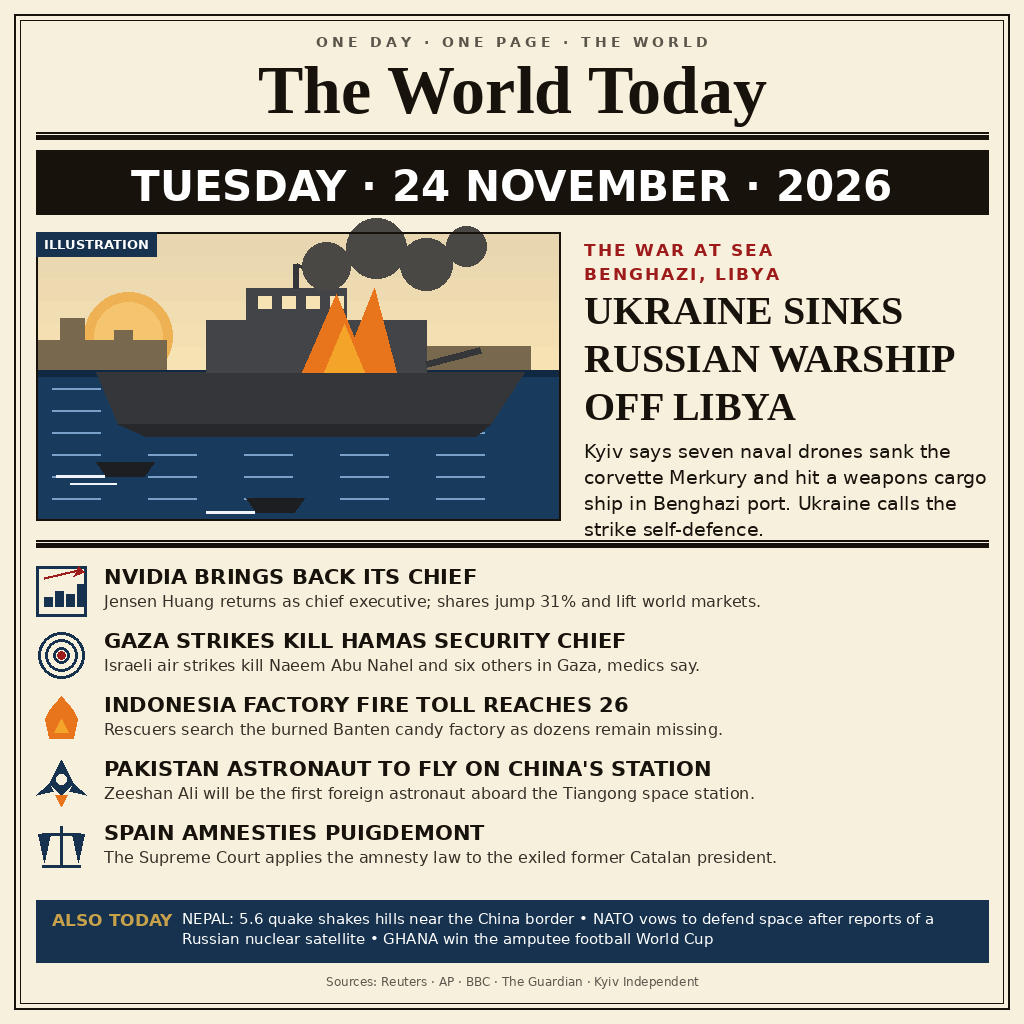
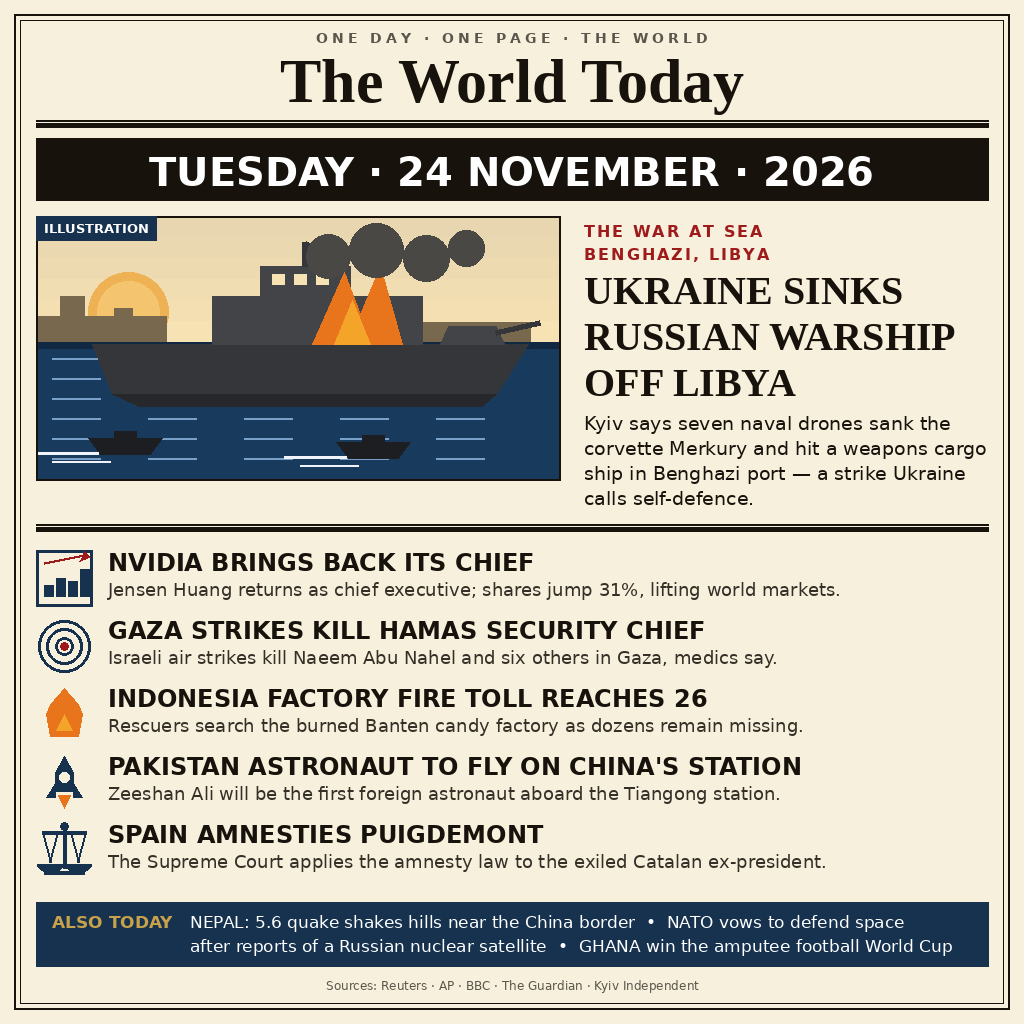
Add files via upload

Changed region(s): [[0.0312, 0.0312, 0.9688, 0.9688]]

diff --git a/main.ts b/main.ts
@@ -1,4 +1,4 @@
-// The World Today — 24 November 2026.
+// The World Today — 24 November 2026, second setting.
 //
 // The whole entry is delivery: the repository holds entry.png, the
 // illustrated broadsheet drawn by compose.py, and this program copies

diff --git a/compose.py b/compose.py
@@ -1,13 +1,22 @@
 #!/usr/bin/env python3
-"""The World Today — 24 November 2026. Draws the illustrated broadsheet
-entry.png (1024x1024) for the make.fun news-image-20261124 bounty.
+"""The World Today — 24 November 2026, second setting. Draws the
+illustrated broadsheet entry.png (1024x1024) for the make.fun
+news-image-20261124 bounty, revised against the first setting:
 
-Layout (winner of a two-variant test in this session): masthead and a
-full-width black date band, then a tall drawn illustration on the left
-with the lead headline and summary stacked on the right, five grid
-stories as full-width rows with one drawn icon each, and an ALSO TODAY
-strip. Everything is drawn with Pillow from plain shapes and text: no
-photos, no network, no copied artwork. Run:  python3 compose.py
+- the lead summary now ends well clear of the rule beneath it (in the
+  first setting its last line sat on the rule);
+- grid headlines and summaries are set larger (24 / 18 px) and every
+  summary is tightened until it fits its row on one line, so the page
+  still reads at the judge's 300-pixel width;
+- the smoke in the lead illustration stays inside its frame, the
+  warship gains a bridge tower and a gun turret so it reads as a
+  warship, and the naval drone boats are drawn larger with wakes;
+- the scales and rocket icons are redrawn to read at small size;
+- the ALSO TODAY strip is set larger, on two balanced lines.
+
+Same day's news, same stories, same attributions as the first setting.
+Everything is drawn with Pillow from plain shapes and text: no photos,
+no network, no copied artwork. Run:  python3 compose.py
 Writes entry.png next to this file. Deterministic: same bytes every run.
 """
 
@@ -109,26 +118,34 @@ def icon_flame(d, x, y, s, col):
 
 
 def icon_rocket(d, x, y, s, col):
+    """A plain rocket: capsule body, round window, two fins, flame."""
     cx = x + s // 2
-    d.polygon([(cx, y + 2), (cx + s // 4, y + s // 2),
-               (cx, y + s * 3 // 4), (cx - s // 4, y + s // 2)], fill=col)
-    d.polygon([(cx - s // 4, y + s // 2), (cx - s // 2, y + s * 3 // 4),
-               (cx - s // 6, y + s * 2 // 3)], fill=col)
-    d.polygon([(cx + s // 4, y + s // 2), (cx + s // 2, y + s * 3 // 4),
-               (cx + s // 6, y + s * 2 // 3)], fill=col)
+    body_w = s // 3
+    top, body_bot = y + 2, y + s * 2 // 3
+    d.polygon([(cx - body_w // 2, body_bot), (cx - body_w // 2, y + s // 3),
+               (cx, top), (cx + body_w // 2, y + s // 3),
+               (cx + body_w // 2, body_bot)], fill=col)
     d.ellipse([cx - 5, y + s // 3, cx + 5, y + s // 3 + 10], fill=CREAM)
-    d.polygon([(cx - 6, y + s * 3 // 4), (cx + 6, y + s * 3 // 4),
+    d.polygon([(cx - body_w // 2, body_bot - 8), (cx - body_w // 2 - 9, body_bot + 6),
+               (cx - body_w // 2, body_bot + 6)], fill=col)
+    d.polygon([(cx + body_w // 2, body_bot - 8), (cx + body_w // 2 + 9, body_bot + 6),
+               (cx + body_w // 2, body_bot + 6)], fill=col)
+    d.polygon([(cx - 6, body_bot + 4), (cx + 6, body_bot + 4),
                (cx, y + s - 2)], fill=ORANGE)
 
 
 def icon_scales(d, x, y, s, col):
+    """Balance scales: post, beam, and two pans hung on chain lines."""
     cx = x + s // 2
-    d.line([(cx, y + 4), (cx, y + s - 8)], fill=col, width=3)
-    d.line([(x + 6, y + 12), (x + s - 6, y + 12)], fill=col, width=3)
-    d.polygon([(x + 2, y + 12), (x + 14, y + 12), (x + 8, y + s - 10)], fill=col)
-    d.polygon([(x + s - 14, y + 12), (x + s - 2, y + 12), (x + s - 8, y + s - 10)],
-              fill=col)
-    d.line([(x + 6, y + s - 6), (x + s - 6, y + s - 6)], fill=col, width=3)
+    beam_y = y + 10
+    d.line([(cx, y + 4), (cx, y + s - 10)], fill=col, width=4)
+    d.line([(x + 6, beam_y), (x + s - 6, beam_y)], fill=col, width=4)
+    d.ellipse([cx - 4, y, cx + 4, y + 8], fill=col)
+    for px in (x + 14, x + s - 14):
+        pan_y = y + s - 16
+        d.line([(px - 8, beam_y), (px, pan_y), (px + 8, beam_y)], fill=col, width=2)
+        d.pieslice([px - 13, pan_y - 6, px + 13, pan_y + 10], 0, 180, fill=col)
+    d.line([(x + 8, y + s - 6), (x + s - 8, y + s - 6)], fill=col, width=4)
 
 
 ICONS = {"chart": icon_chart, "target": icon_target, "flame": icon_flame,
@@ -138,7 +155,8 @@ ICONS = {"chart": icon_chart, "target": icon_target, "flame": icon_flame,
 # ------------------------------------------------------- lead illustration
 def draw_scene(d, x0, y0, x1, y1):
     """Dusk sea at Benghazi port: a grey warship burning at anchor, naval
-    drone boats closing in, smoke over the harbour. Flat shapes only."""
+    drone boats closing in, smoke over the harbour. Flat shapes only,
+    and every shape kept inside the frame."""
     d.rectangle([x0, y0, x1, y1], fill=SKY_TOP)
     horizon = y0 + int((y1 - y0) * 0.48)
     for i in range(6):
@@ -146,49 +164,55 @@ def draw_scene(d, x0, y0, x1, y1):
         shade = tuple(int(SKY_TOP[c] + (SKY_BOT[c] - SKY_TOP[c]) * i / 5) for c in range(3))
         d.rectangle([x0, yy, x1, yy + (horizon - y0) // 6 + 1], fill=shade)
     # low sun
-    sx, sy, sr = x0 + 92, horizon - 34, 44
+    sx, sy, sr = x0 + 92, horizon - 30, 40
     d.ellipse([sx - sr, sy - sr, sx + sr, sy + sr], fill=(238, 178, 84))
-    d.ellipse([sx - sr + 10, sy - sr + 10, sx + sr - 10, sy + sr - 10],
+    d.ellipse([sx - sr + 9, sy - sr + 9, sx + sr - 9, sy + sr - 9],
               fill=(244, 196, 110))
     # distant port skyline
-    d.rectangle([x0, horizon - 30, x0 + 130, horizon], fill=(120, 104, 78))
-    d.rectangle([x0 + 24, horizon - 52, x0 + 48, horizon], fill=(120, 104, 78))
-    d.rectangle([x0 + 78, horizon - 40, x0 + 96, horizon], fill=(120, 104, 78))
-    d.rectangle([x1 - 150, horizon - 24, x1 - 30, horizon], fill=(120, 104, 78))
+    d.rectangle([x0, horizon - 26, x0 + 130, horizon], fill=(120, 104, 78))
+    d.rectangle([x0 + 24, horizon - 46, x0 + 48, horizon], fill=(120, 104, 78))
+    d.rectangle([x0 + 78, horizon - 34, x0 + 96, horizon], fill=(120, 104, 78))
+    d.rectangle([x1 - 150, horizon - 20, x1 - 30, horizon], fill=(120, 104, 78))
     # sea
     d.rectangle([x0, horizon, x1, y1], fill=SEA)
     d.rectangle([x0, horizon, x1, horizon + 6], fill=SEA_DARK)
-    for wy in range(horizon + 18, y1 - 10, 22):
+    for wy in range(horizon + 16, y1 - 8, 20):
         for wx in range(x0 + 16, x1 - 70, 96):
             d.line([(wx, wy), (wx + 48, wy)], fill=(120, 160, 200), width=2)
-    # warship, bow to the right, listing after the strike
-    hx0, hx1 = x0 + 60, x1 - 36
-    hy = horizon + 46
-    d.polygon([(hx0, hy - 44), (hx1, hy - 44), (hx1 - 34, hy + 8),
-               (hx0 + 22, hy + 8)], fill=(52, 54, 58))
-    d.polygon([(hx0 + 22, hy + 8), (hx1 - 34, hy + 8), (hx1 - 48, hy + 20),
-               (hx0 + 48, hy + 20)], fill=(38, 40, 44))
-    d.rectangle([hx0 + 110, hy - 96, hx0 + 330, hy - 44], fill=(66, 68, 72))
-    d.rectangle([hx0 + 150, hy - 128, hx0 + 250, hy - 96], fill=(66, 68, 72))
-    d.line([(hx0 + 200, hy - 128), (hx0 + 200, hy - 152)], fill=(52, 54, 58), width=6)
-    d.line([(hx0 + 200, hy - 152), (hx0 + 236, hy - 136)], fill=(52, 54, 58), width=4)
-    for wx in range(hx0 + 162, hx0 + 242, 24):
-        d.rectangle([wx, hy - 120, wx + 13, hy - 108], fill=(246, 226, 178))
-    d.line([(hx0 + 330, hy - 52), (hx0 + 384, hy - 66)], fill=(52, 54, 58), width=7)
-    # flames and smoke at midship, kept inside the scene box
-    fx = hx0 + 250
-    d.polygon([(fx - 44, hy - 44), (fx - 10, hy - 122), (fx + 8, hy - 78),
-               (fx + 28, hy - 128), (fx + 50, hy - 44)], fill=ORANGE)
-    d.polygon([(fx - 22, hy - 44), (fx - 2, hy - 92), (fx + 18, hy - 44)], fill=FLAME)
-    for sx2, sy2, sr2 in [(fx - 20, y0 + 34, 24), (fx + 30, y0 + 16, 30),
-                          (fx + 80, y0 + 32, 26), (fx + 120, y0 + 14, 20)]:
+    # warship, bow to the right: hull, deck houses, bridge tower, mast,
+    # and a forward gun turret, so it reads as a warship at any size
+    hx0, hx1 = x0 + 56, x1 - 32
+    hy = horizon + 42
+    d.polygon([(hx0, hy - 40), (hx1, hy - 40), (hx1 - 32, hy + 10),
+               (hx0 + 20, hy + 10)], fill=(52, 54, 58))
+    d.polygon([(hx0 + 20, hy + 10), (hx1 - 32, hy + 10), (hx1 - 46, hy + 22),
+               (hx0 + 46, hy + 22)], fill=(38, 40, 44))
+    d.rectangle([hx0 + 120, hy - 88, hx0 + 330, hy - 40], fill=(66, 68, 72))
+    d.rectangle([hx0 + 168, hy - 118, hx0 + 258, hy - 88], fill=(66, 68, 72))
+    for wx in range(hx0 + 180, hx0 + 246, 22):
+        d.rectangle([wx, hy - 110, wx + 12, hy - 100], fill=(246, 226, 178))
+    d.line([(hx0 + 213, hy - 118), (hx0 + 213, hy - 142)], fill=(52, 54, 58), width=6)
+    d.line([(hx0 + 213, hy - 142), (hx0 + 248, hy - 128)], fill=(52, 54, 58), width=4)
+    # forward gun turret and barrel, clear of the flames amidships
+    d.polygon([(hx0 + 348, hy - 40), (hx0 + 356, hy - 58), (hx0 + 404, hy - 58),
+               (hx0 + 412, hy - 40)], fill=(66, 68, 72))
+    d.line([(hx0 + 404, hy - 52), (hx0 + 448, hy - 62)], fill=(52, 54, 58), width=6)
+    # flames and smoke amidships, smoke puffs kept inside the frame
+    fx = hx0 + 262
+    d.polygon([(fx - 42, hy - 40), (fx - 10, hy - 112), (fx + 6, hy - 70),
+               (fx + 26, hy - 118), (fx + 48, hy - 40)], fill=ORANGE)
+    d.polygon([(fx - 20, hy - 40), (fx - 2, hy - 84), (fx + 16, hy - 40)], fill=FLAME)
+    for sx2, sy2, sr2 in [(fx - 26, y0 + 40, 22), (fx + 22, y0 + 34, 27),
+                          (fx + 72, y0 + 42, 23), (fx + 112, y0 + 32, 18)]:
         d.ellipse([sx2 - sr2, sy2 - sr2, sx2 + sr2, sy2 + sr2], fill=(74, 72, 68))
-    # drone boats with wakes closing in
-    for bx, by in [(x0 + 60, horizon + 92), (x0 + 210, horizon + 128)]:
-        d.polygon([(bx, by), (bx + 58, by), (bx + 48, by + 14), (bx + 10, by + 14)],
+    # drone boats with white wakes, big enough to see closing in and
+    # kept clear of the hull above and the frame's bottom edge
+    for bx, by in [(x0 + 52, horizon + 96), (x0 + 300, horizon + 100)]:
+        d.polygon([(bx, by), (bx + 74, by), (bx + 62, by + 16), (bx + 12, by + 16)],
                   fill=(28, 30, 34))
-        d.line([(bx - 40, by + 14), (bx + 8, by + 14)], fill=(240, 244, 248), width=3)
-        d.line([(bx - 26, by + 21), (bx + 20, by + 21)], fill=(240, 244, 248), width=2)
+        d.rectangle([bx + 26, by - 7, bx + 48, by], fill=(28, 30, 34))
+        d.line([(bx - 52, by + 15), (bx + 10, by + 15)], fill=(240, 244, 248), width=3)
+        d.line([(bx - 36, by + 23), (bx + 22, by + 23)], fill=(240, 244, 248), width=2)
     d.rectangle([x0, y0, x1, y1], outline=INK, width=2)
     tag = "ILLUSTRATION"
     tf = font(SANS_B, 13)
@@ -205,71 +229,75 @@ def build():
     d.rectangle([20, 20, W - 21, H - 21], outline=INK, width=1)
 
     # masthead
-    spaced(d, (W // 2, 34), "ONE DAY · ONE PAGE · THE WORLD", font(SANS_B, 14), GREY, 4)
-    d.text((W // 2, 52), "The World Today", font=font(SERIF_B, 68),
+    spaced(d, (W // 2, 30), "ONE DAY · ONE PAGE · THE WORLD", font(SANS_B, 14), GREY, 4)
+    d.text((W // 2, 46), "The World Today", font=font(SERIF_B, 62),
            fill=INK, anchor="ma")
-    rule(d, 36, W - 36, 132, 2)
-    rule(d, 36, W - 36, 137, 5)
+    rule(d, 36, W - 36, 120, 2)
+    rule(d, 36, W - 36, 125, 5)
 
     # date band
-    d.rectangle([36, 150, W - 36, 214], fill=INK)
-    d.text((W // 2, 162), "TUESDAY · 24 NOVEMBER · 2026", font=font(SANS_B, 42),
+    d.rectangle([36, 138, W - 36, 200], fill=INK)
+    d.text((W // 2, 148), "TUESDAY · 24 NOVEMBER · 2026", font=font(SANS_B, 40),
            fill=(255, 255, 255), anchor="ma")
 
-    # ---- lead: illustration left, words right
-    draw_scene(d, 36, 232, 560, 520)
+    # ---- lead: illustration left, words right; the summary wraps to
+    # four lines and ends at about y 506, clear of the rule at 524
+    draw_scene(d, 36, 216, 560, 480)
     tx = 584
-    spaced_left(d, tx, 240, "THE WAR AT SEA", font(SANS_B, 17), RED, 2)
-    spaced_left(d, tx, 264, "BENGHAZI, LIBYA", font(SANS_B, 17), RED, 2)
-    yy = 288
+    spaced_left(d, tx, 222, "THE WAR AT SEA", font(SANS_B, 16), RED, 2)
+    spaced_left(d, tx, 245, "BENGHAZI, LIBYA", font(SANS_B, 16), RED, 2)
+    yy = 268
     for ln in ["UKRAINE SINKS", "RUSSIAN WARSHIP", "OFF LIBYA"]:
         d.text((tx, yy), ln, font=font(SERIF_B, 40), fill=INK)
-        yy += 48
-    summary = ("Kyiv says seven naval drones sank the corvette Merkury and hit a "
-               "weapons cargo ship in Benghazi port. Ukraine calls the strike "
-               "self-defence.")
-    yy += 8
+        yy += 46
+    summary = ("Kyiv says seven naval drones sank the corvette Merkury and "
+               "hit a weapons cargo ship in Benghazi port — a strike "
+               "Ukraine calls self-defence.")
+    yy += 6
     for ln in wrap(d, summary, font(SANS, 19), W - 36 - tx):
         d.text((tx, yy), ln, font=font(SANS, 19), fill=INK)
-        yy += 26
+        yy += 25
 
-    rule(d, 36, W - 36, 540, 2)
-    rule(d, 36, W - 36, 545, 5)
+    rule(d, 36, W - 36, 524, 2)
+    rule(d, 36, W - 36, 529, 5)
 
-    # ---- grid: five full-width rows, one icon each
+    # ---- grid: five full-width rows, one icon each; each summary is
+    # written to fit its row on a single line at 18 px
     stories = [
         ("chart", "NVIDIA BRINGS BACK ITS CHIEF",
-         "Jensen Huang returns as chief executive; shares jump 31% and lift world markets."),
+         "Jensen Huang returns as chief executive; shares jump 31%, lifting world markets."),
         ("target", "GAZA STRIKES KILL HAMAS SECURITY CHIEF",
          "Israeli air strikes kill Naeem Abu Nahel and six others in Gaza, medics say."),
         ("flame", "INDONESIA FACTORY FIRE TOLL REACHES 26",
          "Rescuers search the burned Banten candy factory as dozens remain missing."),
         ("rocket", "PAKISTAN ASTRONAUT TO FLY ON CHINA'S STATION",
-         "Zeeshan Ali will be the first foreign astronaut aboard the Tiangong space station."),
+         "Zeeshan Ali will be the first foreign astronaut aboard the Tiangong station."),
         ("scales", "SPAIN AMNESTIES PUIGDEMONT",
-         "The Supreme Court applies the amnesty law to the exiled former Catalan president."),
+         "The Supreme Court applies the amnesty law to the exiled Catalan ex-president."),
     ]
-    yy = 564
+    yy = 548
     for icon, head, summ in stories:
-        ICONS[icon](d, 36, yy + 2, 50, NAVY)
-        d.text((104, yy), head, font=font(SANS_B, 21), fill=INK)
-        d.text((104, yy + 28), summ, font=font(SANS, 16), fill=(52, 48, 40))
-        yy += 64
+        ICONS[icon](d, 36, yy + 2, 56, NAVY)
+        d.text((108, yy), head, font=font(SANS_B, 24), fill=INK)
+        d.text((108, yy + 31), summ, font=font(SANS, 18), fill=(52, 48, 40))
+        yy += 68
 
-    # ---- also today strip
-    d.rectangle([36, 900, W - 36, 962], fill=NAVY)
-    d.text((52, 910), "ALSO TODAY", font=font(SANS_B, 17), fill=GOLD)
-    items = ("NEPAL: 5.6 quake shakes hills near the China border  •  "
-             "NATO vows to defend space after reports of a Russian nuclear satellite  •  "
-             "GHANA win the amputee football World Cup")
-    al = wrap(d, items, font(SANS, 15), W - 72 - 150)
-    y2 = 910
-    for ln in al[:2]:
-        d.text((52 + 130, y2), ln, font=font(SANS, 15), fill=(255, 255, 255))
-        y2 += 20
+    # ---- also today strip: two balanced lines at 17 px
+    d.rectangle([36, 902, W - 36, 966], fill=NAVY)
+    d.text((52, 912), "ALSO TODAY", font=font(SANS_B, 17), fill=GOLD)
+    # the three items, split by hand into two lines measured to fit the
+    # strip beside the label (715 and 763 of the 784 px available)
+    lines = [
+        "NEPAL: 5.6 quake shakes hills near the China border  •  NATO vows to defend space",
+        "after reports of a Russian nuclear satellite  •  GHANA win the amputee football World Cup",
+    ]
+    y2 = 912
+    for ln in lines:
+        d.text((52 + 138, y2), ln, font=font(SANS, 17), fill=(255, 255, 255))
+        y2 += 24
 
     # footer
-    d.text((W // 2, 974), "Sources: Reuters · AP · BBC · The Guardian · Kyiv Independent",
+    d.text((W // 2, 978), "Sources: Reuters · AP · BBC · The Guardian · Kyiv Independent",
            font=font(SANS, 12), fill=GREY, anchor="ma")
 
     img.save("entry.png", optimize=True)

diff --git a/README.md b/README.md
@@ -6,6 +6,8 @@
 
 One image that sums up the world's news of Tuesday 24 November 2026, set as an illustrated broadsheet front page under a full-width date band: Ukraine's naval drones sinking the Russian corvette Merkury off Libya (drawn burning warship at dusk in Benghazi port), Nvidia bringing back Jensen Huang as chief executive, Israeli strikes killing the Hamas security chief in Gaza, the Banten factory fire toll reaching 26, the first foreign astronaut for China's Tiangong station, and Spain's amnesty for Puigdemont — each grid story with its own small icon — plus an ALSO TODAY strip with the Nepal quake, NATO's space warning and Ghana's amputee football World Cup win.
 
+This is the second setting of the page: the lead summary no longer crowds the rule beneath it, the grid headlines and summaries are set larger so the page still reads at thumbnail width, the illustration's smoke stays inside its frame and the warship is drawn with a bridge tower and gun turret, and the scales and rocket icons are redrawn to read at small size.
+
 ## Run it
 
 ```sh
